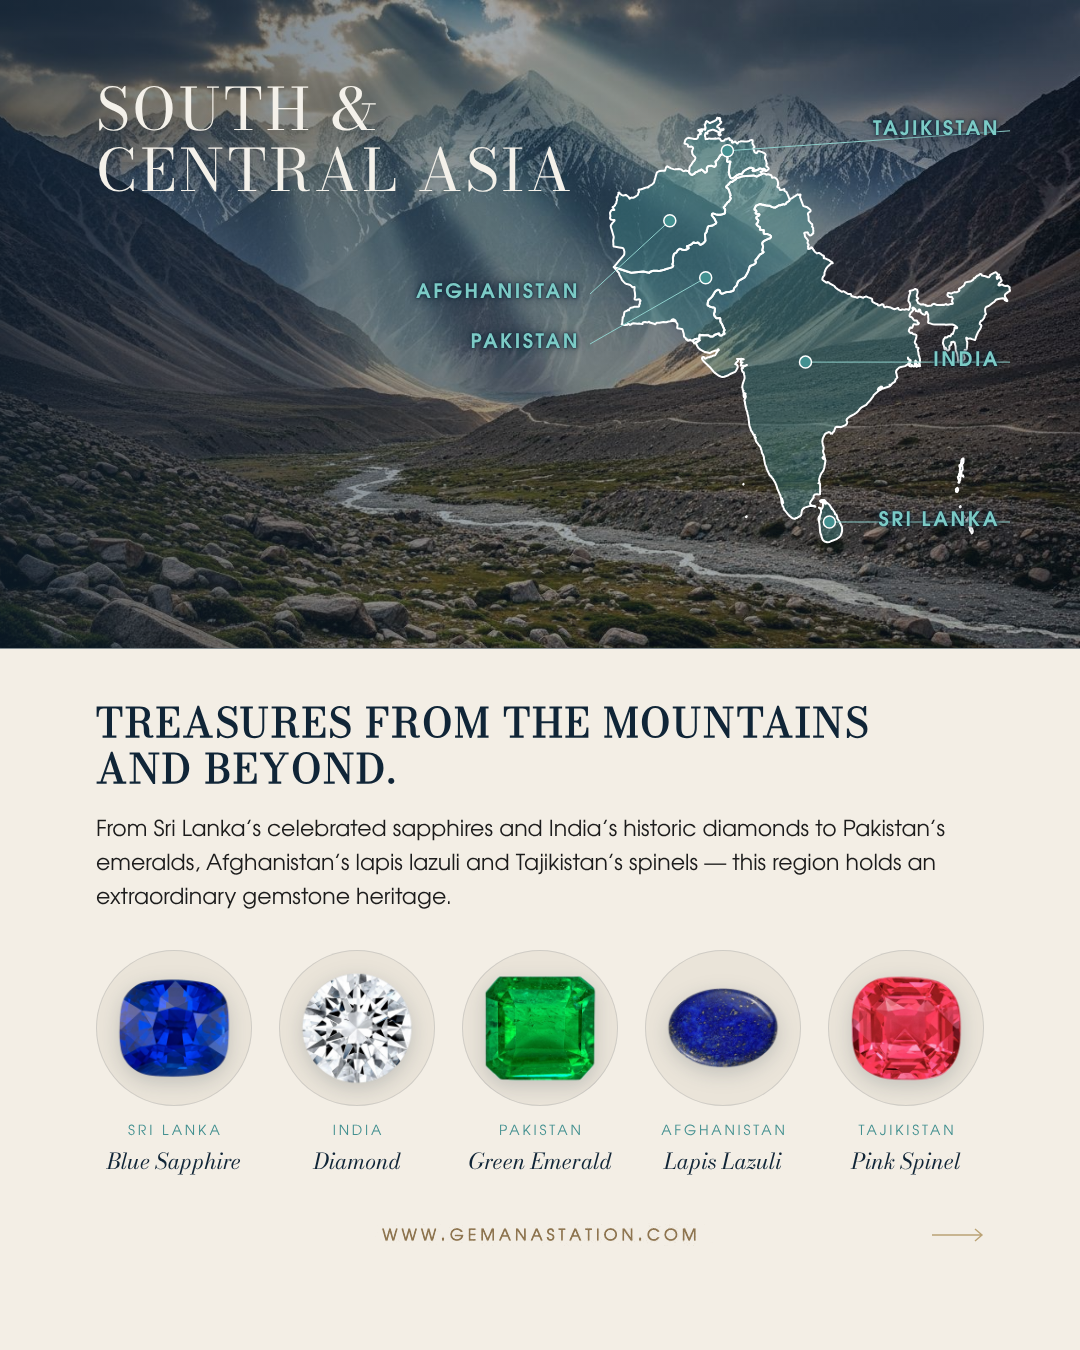
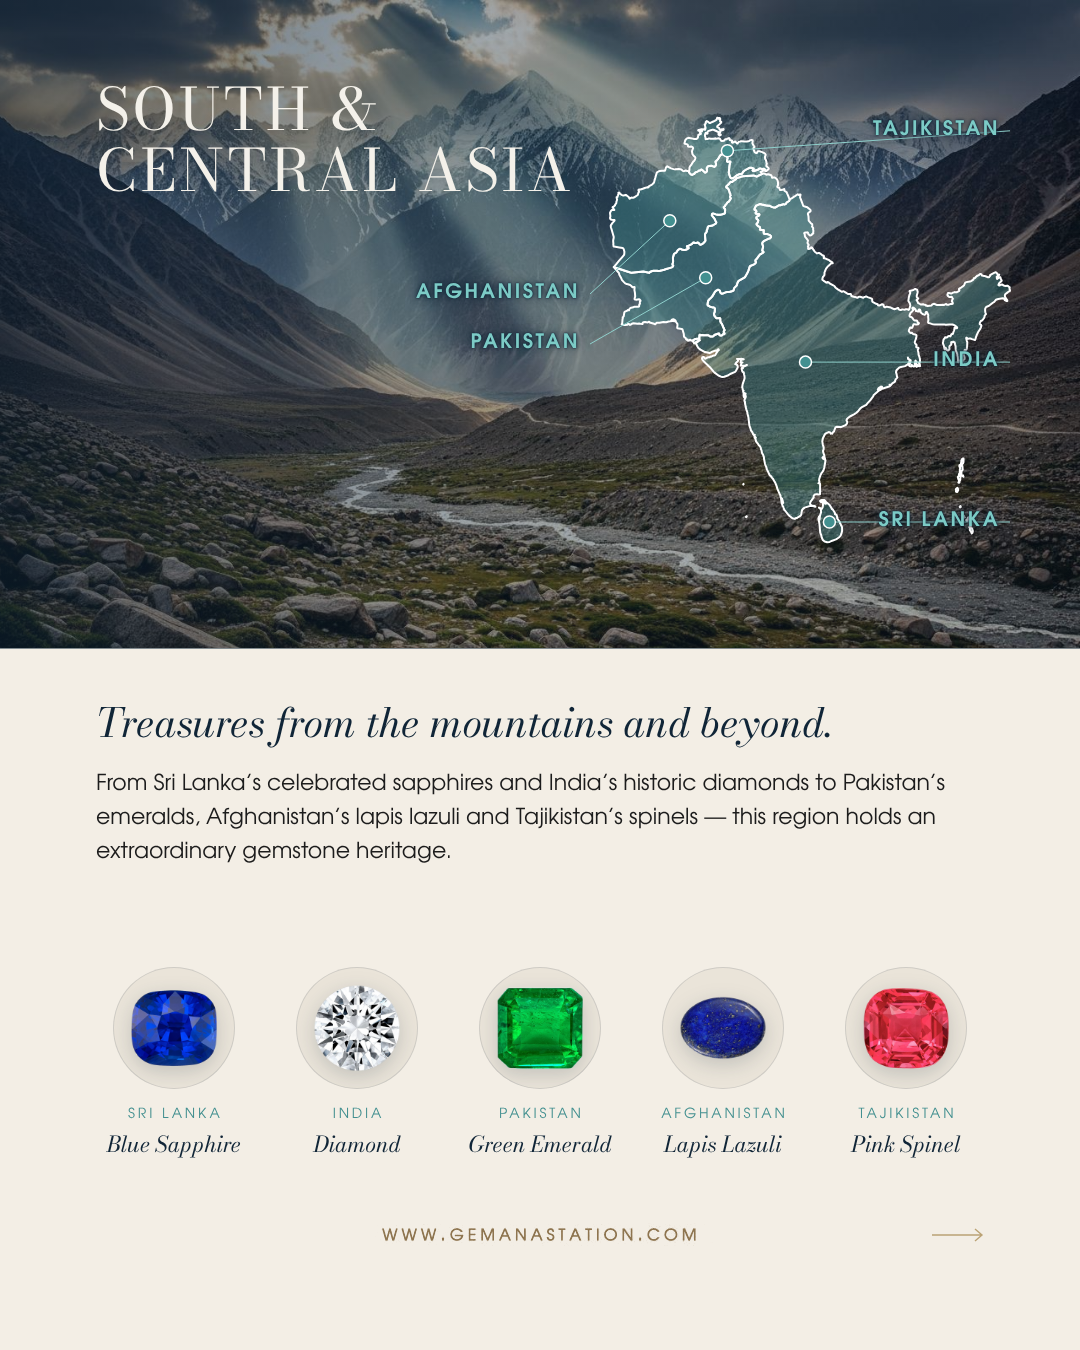
Gems of Asia: final typography pass, smaller gems, carousel set in order
Ivory headings in true Didot Italic (no faux bold), Founder's Note heading
in italic, gem discs 22 % smaller; all 7 slides collected in posting order.

Claude-Session: https://claude.ai/code/session_01DPJpbdE4xE8Jg3JGMEEyZy

diff --git a/gem-anastation-reels/gems_of_asia/slide05.html b/gem-anastation-reels/gems_of_asia/slide05.html
@@ -19,12 +19,13 @@
     text-shadow: 0 0 8px rgba(16,37,55,.95), 0 0 3px rgba(16,37,55,.95), 0 0 1px rgba(16,37,55,1); }
   .rule { position: absolute; left: 0; top: 648px; width: 1080px; height: 1px; background: #102537; opacity: .5; }
   .textblock { position: absolute; left: 96px; top: 700px; width: 900px; }
-  .h2 { margin: 0 0 22px; width: 900px; font-family: "Didot Title"; color: #102537;
-    font-size: 40px; line-height: 1.15; letter-spacing: .05em; text-transform: uppercase; }
+  /* Ivory headings: true Didot Italic (stand-in Bodoni Moda Italic), regular weight, no faux bold */
+  .h2 { margin: 0 0 22px; width: 900px; font-family: "Didot Italic"; font-style: italic; font-weight: 400;
+    color: #102537; font-size: 40px; line-height: 1.15; letter-spacing: 0; }
   .copy { margin: 0; width: 860px; font-family: "AvantGarde";
     font-size: 22px; line-height: 1.55; color: #1C1C1C; }
   .gem { position: absolute; margin: 0; width: 175px; text-align: center; }
-  .disc { width: 156px; height: 156px; border-radius: 50%; overflow: hidden; margin: 0 auto;
+  .disc { width: 122px; height: 122px; border-radius: 50%; overflow: hidden; margin: 0 auto;
     background: #EAE4D9; box-shadow: inset 0 0 0 1px rgba(16,37,55,.12); }
   .disc { display: flex; align-items: center; justify-content: center; }
   .disc img { width: 76%; height: 76%; object-fit: contain; display: block;
@@ -50,25 +51,25 @@
   </div>
   <div class="rule"></div>
 
-  <div class="textblock"><h2 class="h2">Treasures from the mountains<br>and beyond.</h2><p class="copy">From Sri Lanka’s celebrated sapphires and India’s historic diamonds to Pakistan’s emeralds, Afghanistan’s lapis lazuli and Tajikistan’s spinels — this region holds an extraordinary gemstone heritage.</p></div>
+  <div class="textblock"><h2 class="h2">Treasures from the mountains and beyond.</h2><p class="copy">From Sri Lanka’s celebrated sapphires and India’s historic diamonds to Pakistan’s emeralds, Afghanistan’s lapis lazuli and Tajikistan’s spinels — this region holds an extraordinary gemstone heritage.</p></div>
 
-  <figure class="gem" style="left:86.5px; top:950px">
+  <figure class="gem" style="left:86.5px; top:967px">
     <div class="disc"><img src="sources/gem_srilanka_blue_sapphire.png" alt="Blue Sapphire"></div>
     <figcaption><span class="country">Sri Lanka</span><span class="stone">Blue Sapphire</span></figcaption>
   </figure>
-  <figure class="gem" style="left:269.5px; top:950px">
+  <figure class="gem" style="left:269.5px; top:967px">
     <div class="disc"><img src="sources/gem_india_diamond.png" alt="Diamond"></div>
     <figcaption><span class="country">India</span><span class="stone">Diamond</span></figcaption>
   </figure>
-  <figure class="gem" style="left:452.5px; top:950px">
+  <figure class="gem" style="left:452.5px; top:967px">
     <div class="disc"><img src="sources/gem_pakistan_green_emerald.png" alt="Green Emerald"></div>
     <figcaption><span class="country">Pakistan</span><span class="stone">Green Emerald</span></figcaption>
   </figure>
-  <figure class="gem" style="left:635.5px; top:950px">
+  <figure class="gem" style="left:635.5px; top:967px">
     <div class="disc"><img src="sources/gem_afghanistan_lapis_lazuli.png" alt="Lapis Lazuli"></div>
     <figcaption><span class="country">Afghanistan</span><span class="stone">Lapis Lazuli</span></figcaption>
   </figure>
-  <figure class="gem" style="left:818.5px; top:950px">
+  <figure class="gem" style="left:818.5px; top:967px">
     <div class="disc"><img src="sources/gem_tajikistan_pink_spinel.png" alt="Pink Spinel"></div>
     <figcaption><span class="country">Tajikistan</span><span class="stone">Pink Spinel</span></figcaption>
   </figure>

diff --git a/gem-anastation-reels/gems_of_asia/slide04.html b/gem-anastation-reels/gems_of_asia/slide04.html
@@ -19,12 +19,13 @@
     text-shadow: 0 0 8px rgba(16,37,55,.95), 0 0 3px rgba(16,37,55,.95), 0 0 1px rgba(16,37,55,1); }
   .rule { position: absolute; left: 0; top: 648px; width: 1080px; height: 1px; background: #102537; opacity: .5; }
   .textblock { position: absolute; left: 96px; top: 700px; width: 900px; }
-  .h2 { margin: 0 0 22px; width: 900px; font-family: "Didot Title"; color: #102537;
-    font-size: 40px; line-height: 1.15; letter-spacing: .05em; text-transform: uppercase; }
+  /* Ivory headings: true Didot Italic (stand-in Bodoni Moda Italic), regular weight, no faux bold */
+  .h2 { margin: 0 0 22px; width: 900px; font-family: "Didot Italic"; font-style: italic; font-weight: 400;
+    color: #102537; font-size: 40px; line-height: 1.15; letter-spacing: 0; }
   .copy { margin: 0; width: 860px; font-family: "AvantGarde";
     font-size: 22px; line-height: 1.55; color: #1C1C1C; }
   .gem { position: absolute; margin: 0; width: 222.66666666666666px; text-align: center; }
-  .disc { width: 196px; height: 196px; border-radius: 50%; overflow: hidden; margin: 0 auto;
+  .disc { width: 153px; height: 153px; border-radius: 50%; overflow: hidden; margin: 0 auto;
     background: #EAE4D9; box-shadow: inset 0 0 0 1px rgba(16,37,55,.12); }
   .disc { display: flex; align-items: center; justify-content: center; }
   .disc img { width: 76%; height: 76%; object-fit: contain; display: block;
@@ -51,19 +52,19 @@
 
   <div class="textblock"><h2 class="h2">From rubies to ocean pearls.</h2><p class="copy">From Myanmar’s celebrated rubies and spinels to the ocean pearls of Malaysia, Indonesia and the Philippines — Southeast Asia reveals a remarkable diversity of natural treasures.</p></div>
 
-  <figure class="gem" style="left:82.66666666666667px; top:900px">
+  <figure class="gem" style="left:82.66666666666667px; top:921.5px">
     <div class="disc"><img src="sources/gem_myanmar_red_ruby.png" alt="Red Ruby"></div>
     <figcaption><span class="country">Myanmar</span><span class="stone">Red Ruby</span></figcaption>
   </figure>
-  <figure class="gem" style="left:313.33333333333337px; top:900px">
+  <figure class="gem" style="left:313.33333333333337px; top:921.5px">
     <div class="disc"><img src="sources/gem_malaysia_marine_pearl.png" alt="Marine Pearl"></div>
     <figcaption><span class="country">Malaysia</span><span class="stone">Marine Pearl</span></figcaption>
   </figure>
-  <figure class="gem" style="left:544px; top:900px">
+  <figure class="gem" style="left:544px; top:921.5px">
     <div class="disc"><img src="sources/gem_indonesia_south_sea_pearl.png" alt="South Sea Pearl"></div>
     <figcaption><span class="country">Indonesia</span><span class="stone">South Sea Pearl</span></figcaption>
   </figure>
-  <figure class="gem" style="left:774.6666666666666px; top:900px">
+  <figure class="gem" style="left:774.6666666666666px; top:921.5px">
     <div class="disc"><img src="sources/gem_philippines_golden_south_sea_pearl.png" alt="Golden South Sea Pearl"></div>
     <figcaption><span class="country">Philippines</span><span class="stone">Golden<br>South Sea Pearl</span></figcaption>
   </figure>

diff --git a/gem-anastation-reels/gems_of_asia/slide06.html b/gem-anastation-reels/gems_of_asia/slide06.html
@@ -19,12 +19,13 @@
     text-shadow: 0 0 8px rgba(16,37,55,.95), 0 0 3px rgba(16,37,55,.95), 0 0 1px rgba(16,37,55,1); }
   .rule { position: absolute; left: 0; top: 648px; width: 1080px; height: 1px; background: #102537; opacity: .5; }
   .textblock { position: absolute; left: 96px; top: 700px; width: 900px; }
-  .h2 { margin: 0 0 22px; width: 900px; font-family: "Didot Title"; color: #102537;
-    font-size: 40px; line-height: 1.15; letter-spacing: .05em; text-transform: uppercase; }
+  /* Ivory headings: true Didot Italic (stand-in Bodoni Moda Italic), regular weight, no faux bold */
+  .h2 { margin: 0 0 22px; width: 900px; font-family: "Didot Italic"; font-style: italic; font-weight: 400;
+    color: #102537; font-size: 40px; line-height: 1.15; letter-spacing: 0; }
   .copy { margin: 0; width: 860px; font-family: "AvantGarde";
     font-size: 22px; line-height: 1.55; color: #1C1C1C; }
   .gem { position: absolute; margin: 0; width: 216px; text-align: center; }
-  .disc { width: 216px; height: 216px; border-radius: 50%; overflow: hidden; margin: 0 auto;
+  .disc { width: 168px; height: 168px; border-radius: 50%; overflow: hidden; margin: 0 auto;
     background: #EAE4D9; box-shadow: inset 0 0 0 1px rgba(16,37,55,.12); }
   .disc { display: flex; align-items: center; justify-content: center; }
   .disc img { width: 76%; height: 76%; object-fit: contain; display: block;
@@ -49,15 +50,15 @@
 
   <div class="textblock"><h2 class="h2">From ancient jade to ocean pearls.</h2><p class="copy">From China’s treasured jade and freshwater pearls to Japan’s renowned Akoya pearls — East Asia brings together centuries of craftsmanship and the beauty of nature.</p></div>
 
-  <figure class="gem" style="left:120px; top:900px">
+  <figure class="gem" style="left:120px; top:924px">
     <div class="disc"><img src="sources/gem_china_nephrite_jade.png" alt="Nephrite Jade"></div>
     <figcaption><span class="country">China</span><span class="stone">Nephrite Jade</span></figcaption>
   </figure>
-  <figure class="gem" style="left:432px; top:900px">
+  <figure class="gem" style="left:432px; top:924px">
     <div class="disc"><img src="sources/gem_china_freshwater_pearl.png" alt="Freshwater Pearl"></div>
     <figcaption><span class="country">China</span><span class="stone">Freshwater Pearl</span></figcaption>
   </figure>
-  <figure class="gem" style="left:744px; top:900px">
+  <figure class="gem" style="left:744px; top:924px">
     <div class="disc"><img src="sources/gem_japan_akoya_pearl.png" alt="Akoya Pearl"></div>
     <figcaption><span class="country">Japan</span><span class="stone">Akoya Pearl</span></figcaption>
   </figure>

diff --git a/gem-anastation-reels/gems_of_asia/slide03.html b/gem-anastation-reels/gems_of_asia/slide03.html
@@ -19,12 +19,13 @@
     text-shadow: 0 0 8px rgba(16,37,55,.95), 0 0 3px rgba(16,37,55,.95), 0 0 1px rgba(16,37,55,1); }
   .rule { position: absolute; left: 0; top: 648px; width: 1080px; height: 1px; background: #102537; opacity: .5; }
   .textblock { position: absolute; left: 96px; top: 700px; width: 900px; }
-  .h2 { margin: 0 0 22px; width: 900px; font-family: "Didot Title"; color: #102537;
-    font-size: 40px; line-height: 1.15; letter-spacing: .05em; text-transform: uppercase; }
+  /* Ivory headings: true Didot Italic (stand-in Bodoni Moda Italic), regular weight, no faux bold */
+  .h2 { margin: 0 0 22px; width: 900px; font-family: "Didot Italic"; font-style: italic; font-weight: 400;
+    color: #102537; font-size: 40px; line-height: 1.15; letter-spacing: 0; }
   .copy { margin: 0; width: 860px; font-family: "AvantGarde";
     font-size: 22px; line-height: 1.55; color: #1C1C1C; }
   .gem { position: absolute; margin: 0; width: 216px; text-align: center; }
-  .disc { width: 216px; height: 216px; border-radius: 50%; overflow: hidden; margin: 0 auto;
+  .disc { width: 168px; height: 168px; border-radius: 50%; overflow: hidden; margin: 0 auto;
     background: #EAE4D9; box-shadow: inset 0 0 0 1px rgba(16,37,55,.12); }
   .disc { display: flex; align-items: center; justify-content: center; }
   .disc img { width: 76%; height: 76%; object-fit: contain; display: block;
@@ -50,15 +51,15 @@
 
   <div class="textblock"><h2 class="h2">Three countries. Distinctive gems.</h2><p class="copy">From Thailand’s sapphires and Cambodia’s zircons to Vietnam’s remarkable spinels — each country reveals a different side of Asia’s gemstone heritage.</p></div>
 
-  <figure class="gem" style="left:120px; top:900px">
+  <figure class="gem" style="left:120px; top:924px">
     <div class="disc"><img src="sources/gem_thailand_blue_sapphire.png" alt="Blue Sapphire"></div>
     <figcaption><span class="country">Thailand</span><span class="stone">Blue Sapphire</span></figcaption>
   </figure>
-  <figure class="gem" style="left:432px; top:900px">
+  <figure class="gem" style="left:432px; top:924px">
     <div class="disc"><img src="sources/gem_vietnam_pink_spinel.png" alt="Pink Spinel"></div>
     <figcaption><span class="country">Vietnam</span><span class="stone">Pink Spinel</span></figcaption>
   </figure>
-  <figure class="gem" style="left:744px; top:900px">
+  <figure class="gem" style="left:744px; top:924px">
     <div class="disc"><img src="sources/gem_cambodia_blue_zircon.png" alt="Blue Zircon"></div>
     <figcaption><span class="country">Cambodia</span><span class="stone">Blue Zircon</span></figcaption>
   </figure>

diff --git a/gem-anastation-reels/founders_note/note_gems-of-asia.html b/gem-anastation-reels/founders_note/note_gems-of-asia.html
@@ -16,8 +16,8 @@
   .p2 { left: 486px; width: 594px; background: var(--ivory); color: var(--navy); }
   .p2 .in { position: absolute; left: 64px; right: 56px; top: 0; bottom: 0; }
   .hr { position: absolute; left: 0; height: 1px; background: var(--gold2); }
-  .h1 { position: absolute; left: 0; top: 92px; margin: 0; font-family: "Didot Title"; font-weight: 400;
-        font-size: 74px; line-height: 1.02; text-transform: uppercase; color: var(--navy); }
+  .h1 { position: absolute; left: 0; top: 92px; margin: 0; font-family: "Didot Italic"; font-style: italic;
+        font-weight: 400; font-size: 66px; line-height: 1.04; color: var(--navy); }
   .letter { position: absolute; left: 0; top: 284px; width: 440px; margin: 0; font-family: "AvantGarde";
         font-size: 22px; line-height: 1.5; color: var(--navy); }
   .lead { position: absolute; left: 0; top: 498px; font-family: "Didot Italic"; font-style: italic;

diff --git a/gem-anastation-reels/carousel_gems_of_asia/README.md b/gem-anastation-reels/carousel_gems_of_asia/README.md
@@ -1,0 +1,12 @@
+# GEMS OF ASIA — final carousel (7 × 1080×1350, in posting order)
+
+01 cover (river) · 02 The Gemstone Map · 03 Southeast Asia I · 04 Southeast
+Asia II · 05 South & Central Asia · 06 East Asia · 07 Founder's Note.
+Copies of the outputs of `covers/`, `gems_of_asia/` and `founders_note/`.
+
+Typography system (final pass): cover title Didot Bold caps 106 px; large
+titles on dark/photo backgrounds Didot Regular caps (58 px); large headings
+on ivory Didot Italic, regular weight, navy #102537 (regional 40 px,
+Founder's Note 66 px). Gem discs 22 % smaller than first approval
+(168 / 153 / 122 px for 3 / 4 / 5 gems), centred on the old disc line.
+Didot stand-in: Bodoni Moda (Regular / Italic / Bold) until licensed files arrive.
